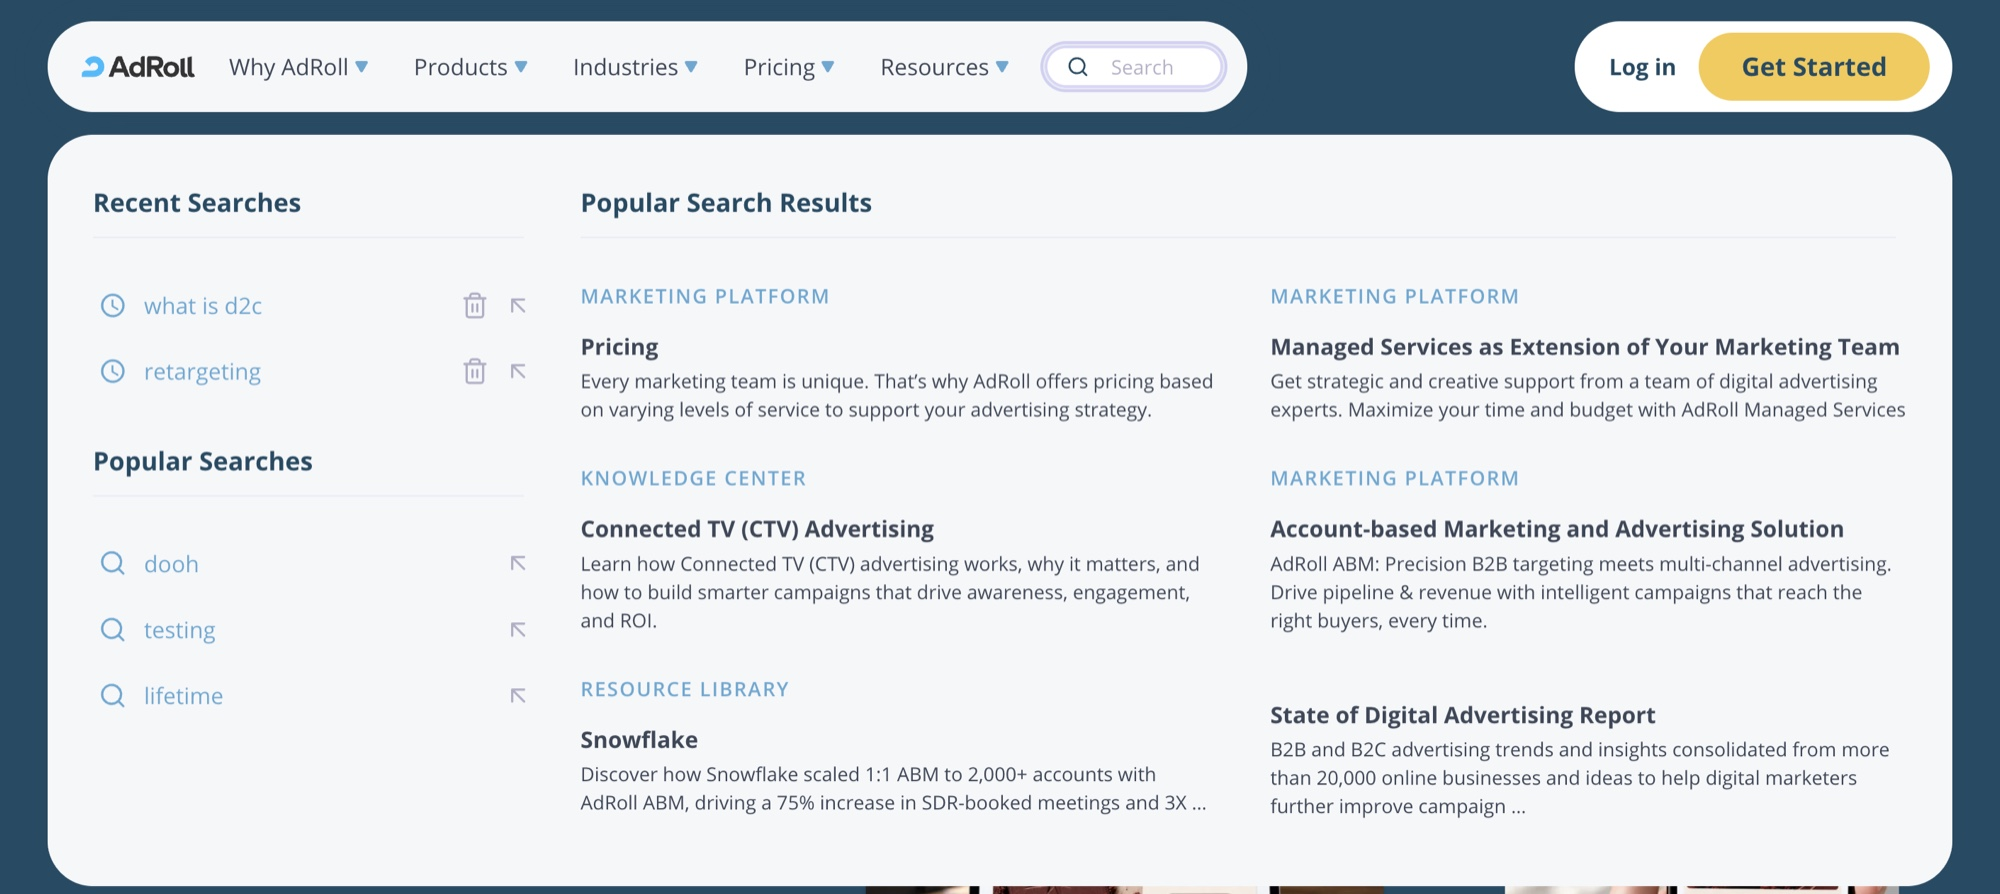
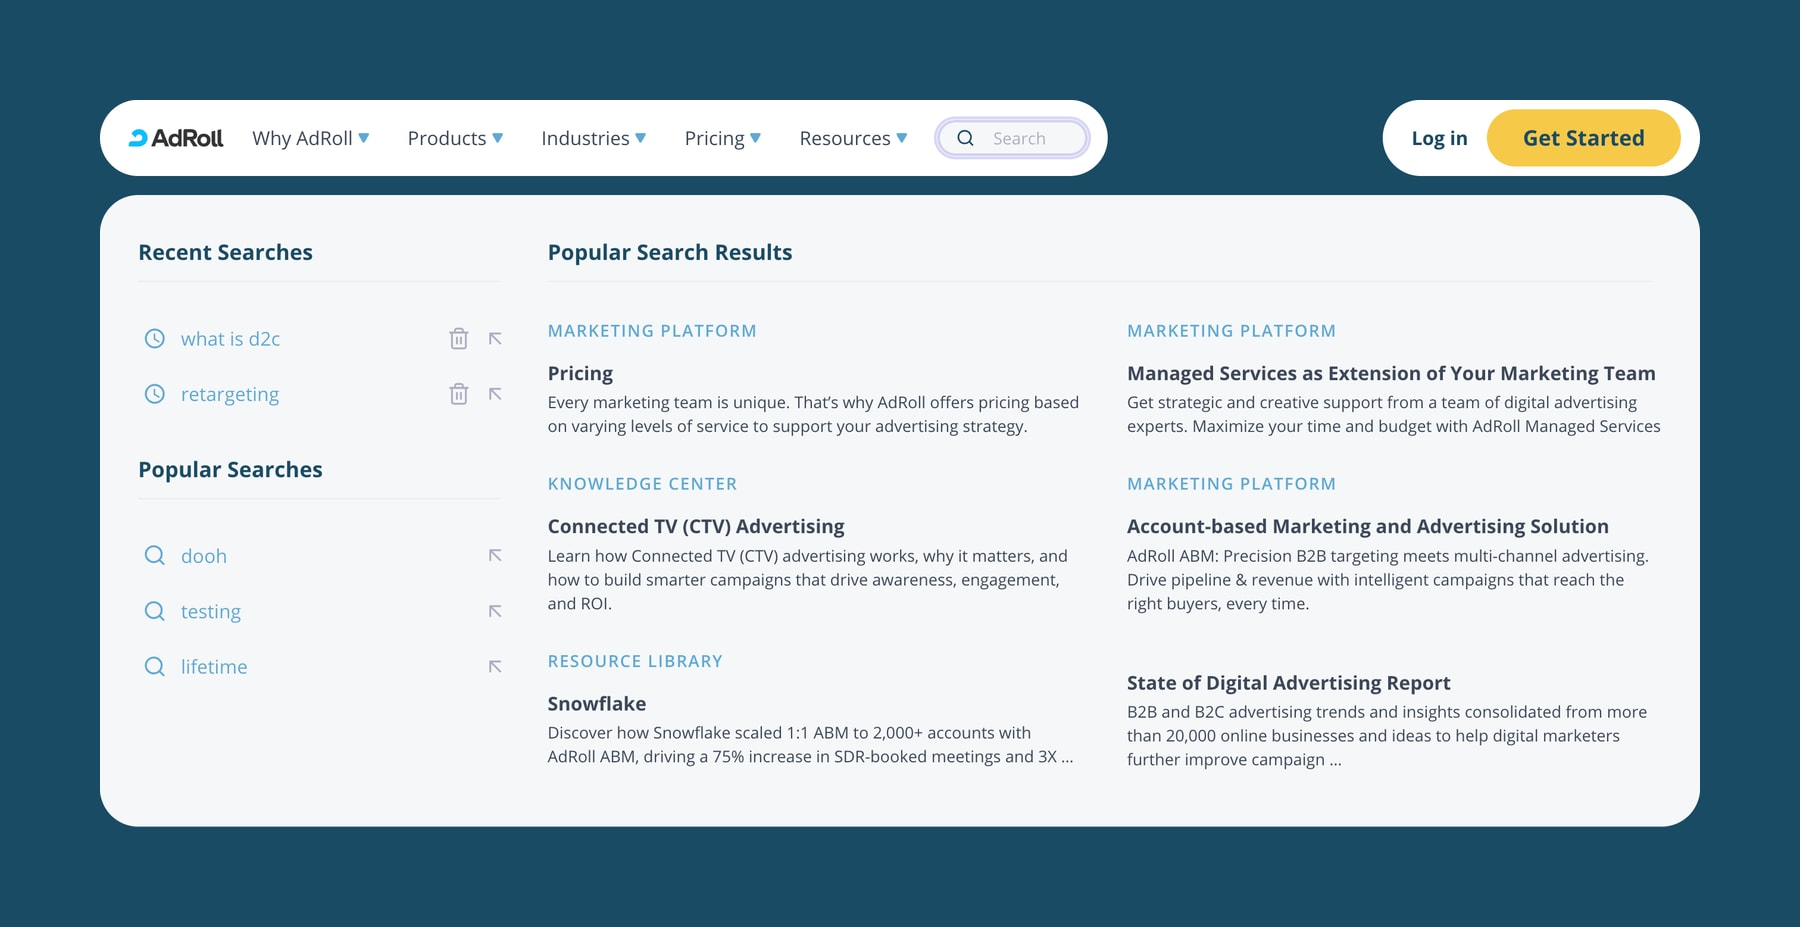
search case study: clean-background UI images, even padding, smaller display size

diff --git a/src/scss/_module-ui-state.scss b/src/scss/_module-ui-state.scss
@@ -4,7 +4,7 @@
 ------------------------------------- */
 
 .ui-state {
-  max-width: 96rem;
+  max-width: 80rem;
   margin: 3.2rem 0 4.8rem;
 }
 

diff --git a/src/case-studies/site-search/site-search.md b/src/case-studies/site-search/site-search.md
@@ -44,7 +44,7 @@ Nobody asked me to fix this. I spotted it while working on other marketing site 
 
 {% uiState "img-search-default", "The AdRoll site header with the search field focused and a panel open below it. A Recent Searches list (what is d2c, retargeting) and a Popular Searches list (dooh, testing, lifetime) sit beside Popular Search Results: six curated links to Pricing, Managed Services, Connected TV Advertising, Account-based Marketing, a Snowflake customer story, and the State of Digital Advertising Report.", "Default, before anyone types: recent and popular searches beside six curated links to high-intent pages. It's the most-seen screen in any search interface, so I designed it as a routing tool, and curating it also let us point traffic at a new page or case study." %}
 
-{% uiState "img-search-results", "The search panel after typing connected tv. A Recent Searches list shows connected tv beside Results for connected tv: six results labeled News, Marketing Platform, Blog, and Resource Library, with matches highlighted and a See All Results button below.", "Results: results labeled by content type, with matches highlighted and a link to the full results page." %}
+{% uiState "img-search-results", "The search panel after typing what is d2c. A Recent Searches list shows what is d2c beside Results for what is d2c: six blog posts with matches highlighted and a See All Results button below.", "Results: every search is saved to Recent Searches, and results are labeled by content type with matches highlighted, plus a link to the full results page." %}
 
 {% uiState "img-search-empty", "The search panel after typing developers. It reads No results for developers, lists tips (double-check the spelling, use fewer words, search for a less specific term), and links to popular terms: Retargeting, Programmatic advertising, and Display advertising.", "No results: tips and evergreen topics, so a failed search doesn't end in a dead end." %}
 
